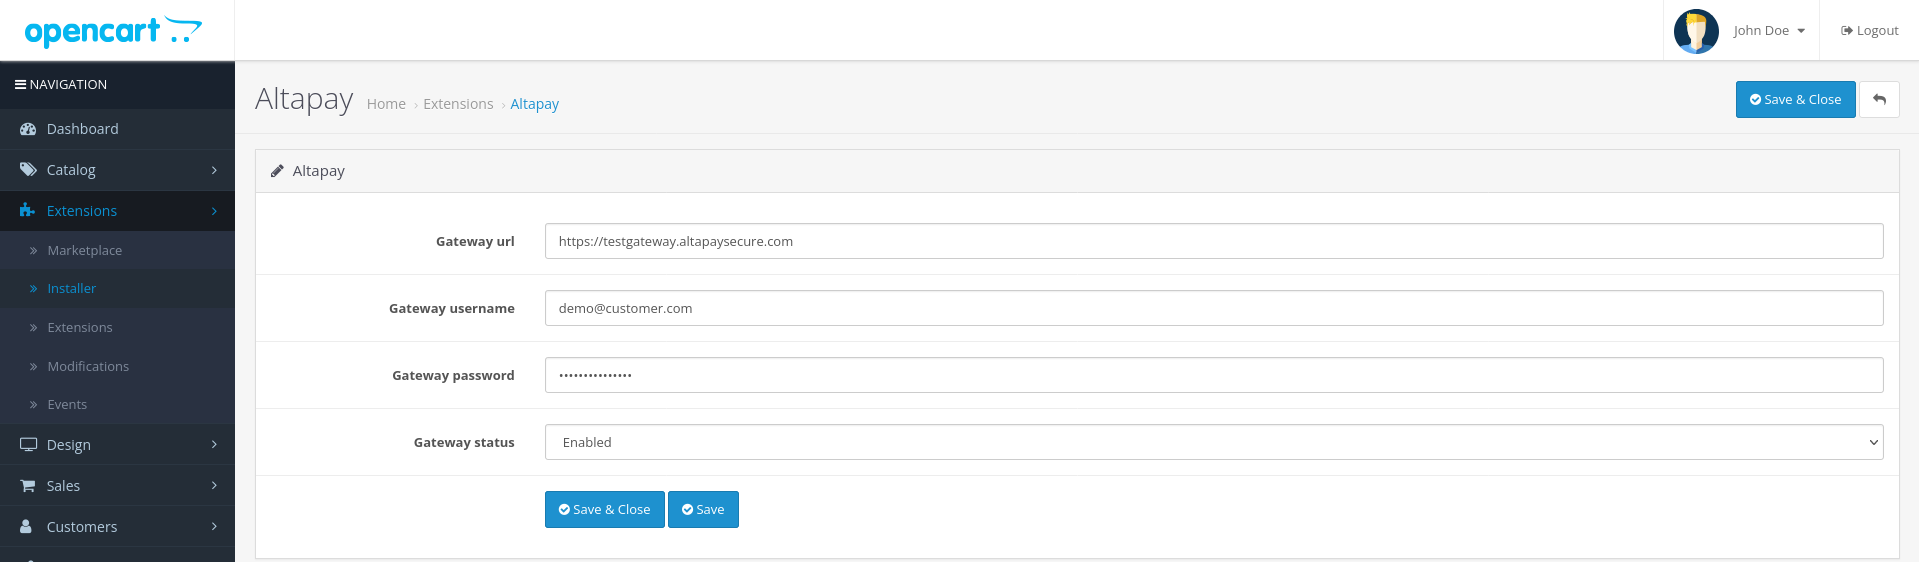
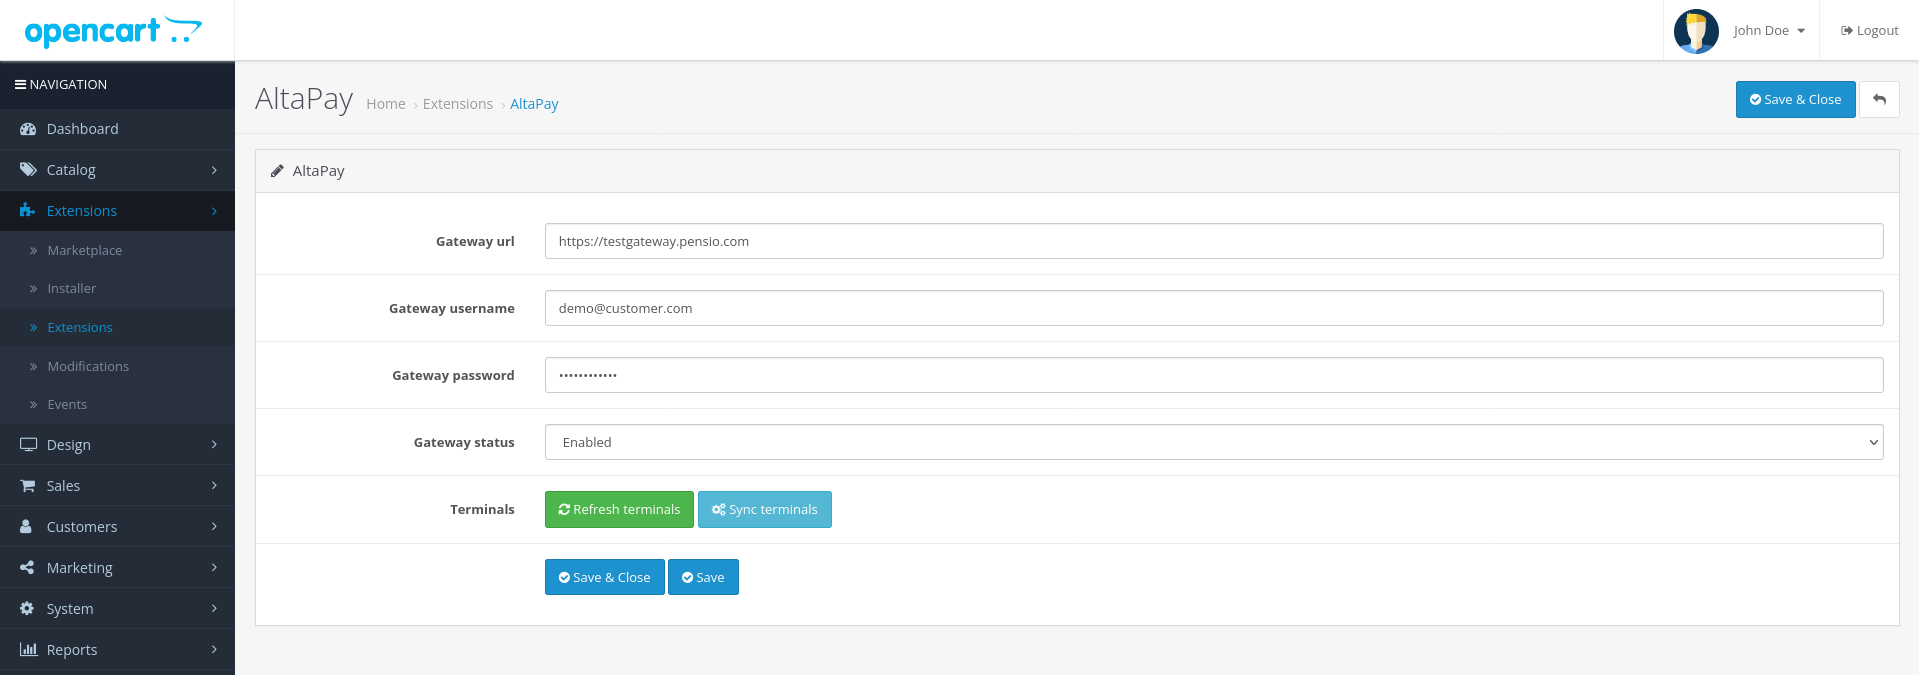
update screenshots in documentation

diff --git a/wiki.md b/wiki.md
@@ -67,11 +67,11 @@ The standard configuration connects the plugin with the test gateway. Take the f
 - In the AltaPay line, click on Edit.
 - Fill in the credentials, change the **Gateway status** to **Enabled** and click on 'Save'.
 
- ![opencart_altapay_enable](https://github.com/AltaPay/plugin-opencart3/blob/main/docs/opencart_altapay_enable.png)
+ ![opencart_altapay_enable](docs/opencart_altapay_enable.png)
 
 - Click on **Refresh Terminals**
 
- ![opencart_altapay_refresh_terminals](https://github.com/AltaPay/plugin-opencart3/blob/main/docs/opencart_altapay_refresh_terminals.png)
+ ![opencart_altapay_refresh_terminals](docs/opencart_altapay_refresh_terminals.png)
 
 
 ## Configure the terminals for the checkout page
@@ -116,7 +116,7 @@ The standard configuration connects the plugin with the test gateway. Take the f
 
 
 > _Note: In the case of a new installation, remember to refresh the terminals (go to **‘Extensions’ > ‘Extensions’ > ‘Modules’ >** edit **‘AltaPay’** and click on **‘Refresh terminals’**)._
-![opencart_altapay_refresh_terminals](https://github.com/AltaPay/plugin-opencart3/blob/main/docs/opencart_altapay_refresh_terminals.png)
+![opencart_altapay_refresh_terminals](docs/opencart_altapay_refresh_terminals.png)
 
 
 This will populate all the available terminals for the current API user.
@@ -125,6 +125,7 @@ If you face any issue click on **Refresh connection** button, this will fetch th
 ## Synchronize payment methods
 
 To synchronize the terminals with the gateway, click on the **Sync terminals** button. This will fetch the latest terminals from the gateway and will automatically configure based on the store country.
+
 ![synchronize_payment_methods](docs/synchronize_payment_methods.png)
 
 # Supported versions
